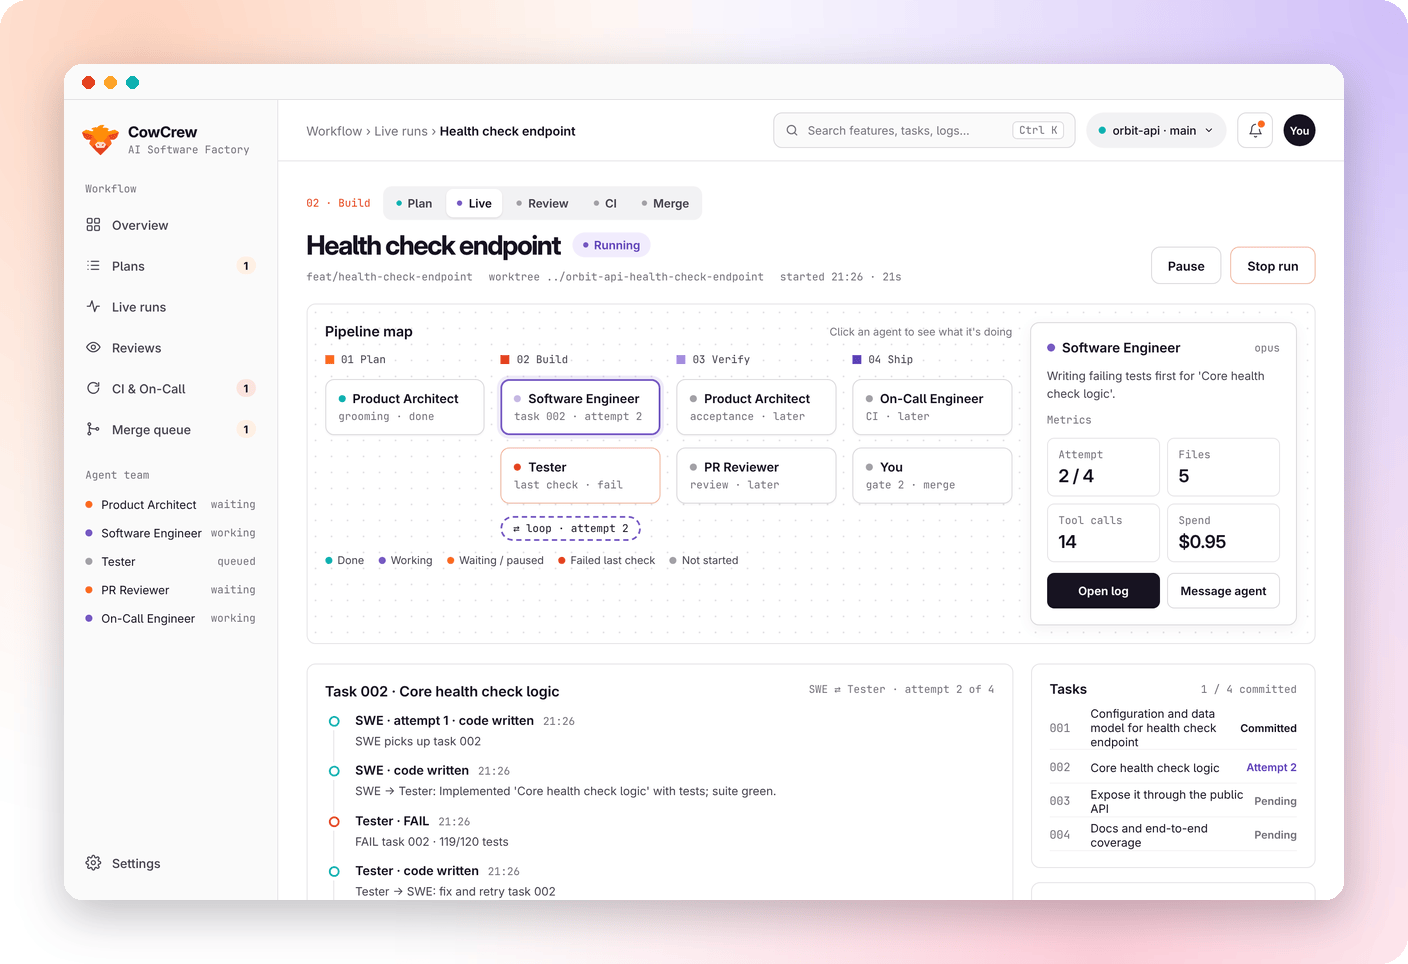
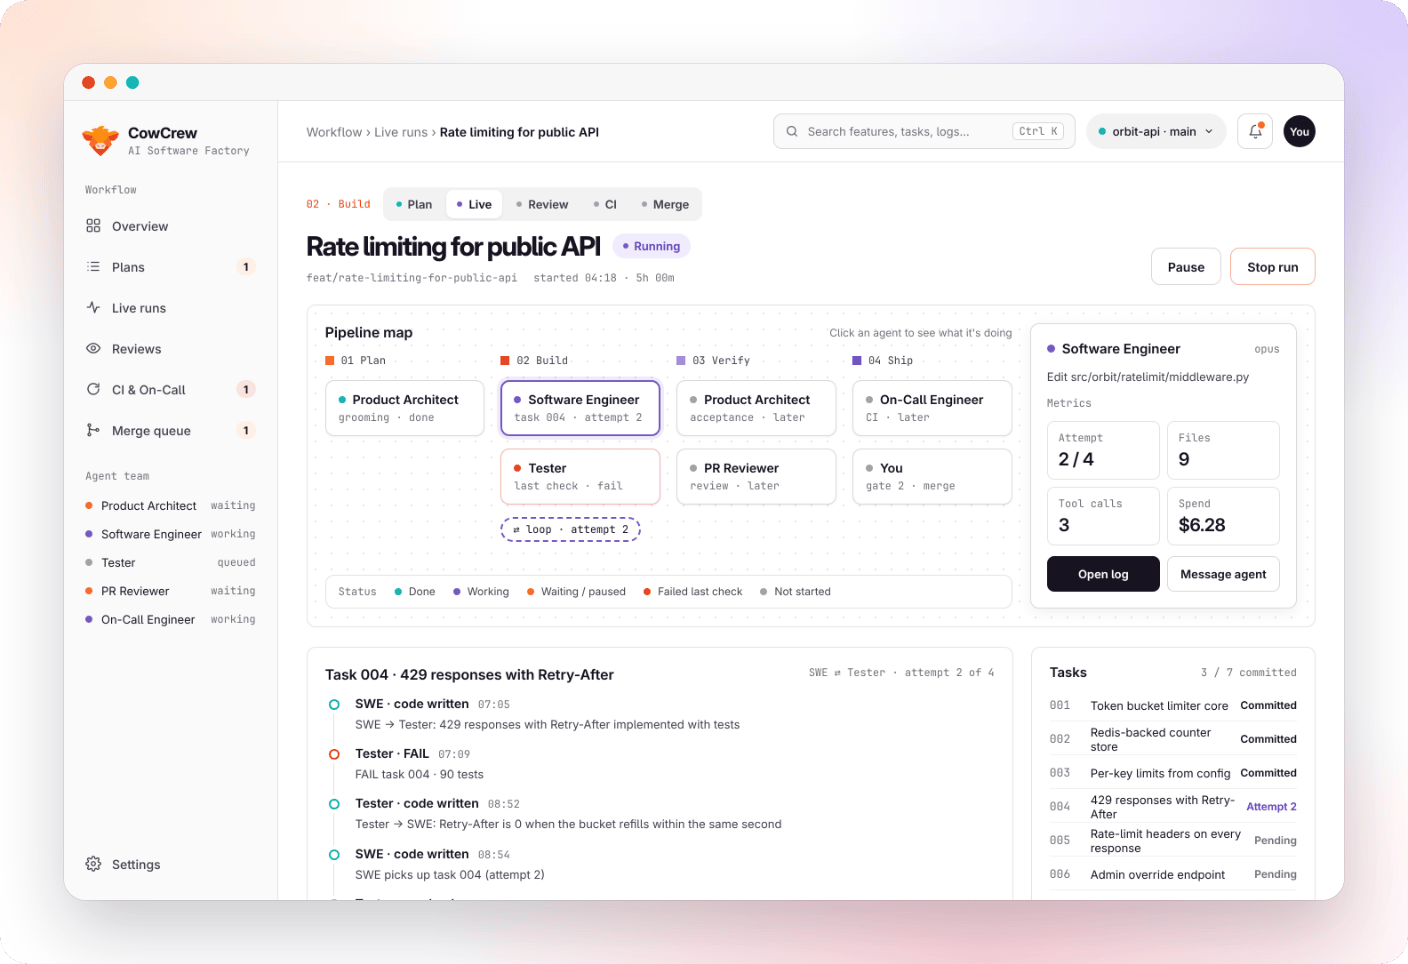
docs: README update with what's new and the Shortly example
- What's new: tokens vs dollars, macOS Keychain login, merges pinned to the
  reviewed commit, re-review after CI fixes, local merge in simulate mode,
  guard fixes, reconnect refresh, opt-in follow-up for nits.
- Example section for examples/shortly with the real click-stats run and a
  new graphic; refreshed Live run screenshot with the legend at the bottom.
- Test badge 140; updated pipeline, safety and simulate-mode text.

Claude-Session: https://claude.ai/code/session_012ToA1M3A84bgyzJTq4odoi

diff --git a/README.md b/README.md
@@ -6,7 +6,7 @@
   <img alt="Python 3.11+" src="https://img.shields.io/badge/python-3.11%2B-171321?style=flat-square&labelColor=45424D">
   <img alt="React 18" src="https://img.shields.io/badge/react-18-7759C2?style=flat-square&labelColor=45424D">
   <img alt="Claude Agent SDK" src="https://img.shields.io/badge/agents-Claude%20Agent%20SDK-FC6D26?style=flat-square&labelColor=45424D">
-  <img alt="115 backend tests" src="https://img.shields.io/badge/tests-115%20passing-10B1B1?style=flat-square&labelColor=45424D">
+  <img alt="140 backend tests" src="https://img.shields.io/badge/tests-140%20passing-10B1B1?style=flat-square&labelColor=45424D">
   <img alt="Runs locally" src="https://img.shields.io/badge/runs-on%20your%20machine-A989F5?style=flat-square&labelColor=45424D">
 </p>
 
@@ -14,7 +14,9 @@
   <a href="#quick-start"><b>Quick start</b></a> ·
   <a href="#how-it-works"><b>How it works</b></a> ·
   <a href="#meet-the-crew"><b>The crew</b></a> ·
+  <a href="#example-shortly"><b>Example</b></a> ·
   <a href="#a-tour-of-the-dashboard"><b>Tour</b></a> ·
+  <a href="#whats-new"><b>What's new</b></a> ·
   <a href="#safety-guardrails"><b>Safety</b></a>
 </p>
 
@@ -28,7 +30,7 @@ CowCrew is a software factory that runs on your own computer. You write a few li
 feature you want. A crew of five AI agents plans it, builds it task by task, tests it, reviews
 it and gets CI green, all inside its own git worktree. You step in exactly twice: to **approve
 the plan** and to **merge the result**. A live dashboard shows every agent, every loop and every
-dollar while it happens.
+token (or dollar) while it happens.
 
 <table>
   <tr>
@@ -45,7 +47,8 @@ dollar while it happens.
     <td width="33%" valign="top">
       <h3>You see everything</h3>
       A pipeline map, the engineer ⇄ tester loop, live logs, findings, CI diagnoses and
-      spend per agent and model, streamed over WebSocket.
+      usage per agent and model, streamed over WebSocket. It catches up on its own after a
+      dropped connection.
     </td>
   </tr>
 </table>
@@ -68,7 +71,10 @@ dollar while it happens.
    Nits never block.
 4. **Ship.** If the project has a GitHub repo and `gh` is logged in, CowCrew pushes, opens the
    PR and watches CI. When CI goes red, the On-Call Engineer diagnoses the failure and writes a
-   fix task. **Gate 2:** you read the checklist and squash-merge, through the PR or locally.
+   fix task. The fix goes back through acceptance and PR review before CI runs again, so
+   nothing reaches you unreviewed. **Gate 2:** you read the checklist and squash-merge, through
+   the PR or locally. The merge is pinned to the exact commit that was reviewed: if anything
+   new lands on the branch, CowCrew refuses to merge it.
 
 Progress is saved in SQLite. After a restart, running features come back paused and pick up
 where they left off when you resume them.
@@ -82,6 +88,41 @@ where they left off when you resume them.
 Each agent runs on the [Claude Agent SDK](https://docs.claude.com/en/docs/agent-sdk/overview)
 with its own instructions, tools and model. You can change the model for each one in
 Settings.
+
+## Example: Shortly
+
+<p align="center">
+  <img src="docs/assets/example-shortly.png" alt="Example run on Shortly: a 2-line spec, 4 questions from the planner, 3 tasks coded, tested and committed, pull request #1 merged; the repo went from 5 to 18 tests" width="100%">
+</p>
+
+[`examples/shortly`](examples/shortly) is a deliberately unfinished URL shortener (FastAPI,
+in-memory storage, 5 tests) that ships with CowCrew so you can watch a real run on a small
+codebase. Its [`AGENTS.md`](examples/shortly/AGENTS.md) tells the agents how to install, test
+and lint it, and which conventions to follow.
+
+**The first real run** used real agents on a Claude subscription with this spec:
+
+> Count how many times each short link is followed. Add GET /links/{code}/stats that returns
+> the target URL, the click count and when the link was created. Unknown codes return 404.
+
+| Step | What happened |
+|---|---|
+| Plan | The Product Architect asked **4 questions** about gaps in the spec, then planned **3 tasks** with acceptance criteria. Gate 1: approved. |
+| Build | In its own worktree on `feat/click-stats`, each task went Software Engineer → Tester, with one commit per PASS. |
+| Verify | The Product Architect accepted the feature. The PR Reviewer's Nits were left for Gate 2. |
+| Ship | **PR #1 `feat: click stats`** was squash-merged at Gate 2. The suite grew from **5 to 18 tests**. |
+
+**Try it yourself.** Copy Shortly into its own git repo (and a GitHub repo if you want PRs and
+CI), add it in **Settings → Projects**, and paste the spec above into **New feature spec**.
+[docs/DEMO.md](docs/DEMO.md) has the full walkthrough, plus a harder second feature (API keys,
+rate limits and rejecting unsafe URLs) that triggers review Blockers, a red CI run and an
+On-Call fix.
+
+```bash
+cp -r examples/shortly ~/code/shortly && cd ~/code/shortly
+git init -b main && git add -A && git commit -m "Shortly starter"
+uv sync && uv run pytest -q     # 5 passed
+```
 
 ## A tour of the dashboard
 
@@ -140,17 +181,18 @@ whole flow without an API key.
 
 ### Run the real agents
 
-1. Set `ANTHROPIC_API_KEY`, or log in to Claude Code on this machine.
+1. Set `ANTHROPIC_API_KEY`, or log in to Claude Code on this machine (`claude` → `/login`).
+   On macOS, a Claude Code login stored in the Keychain is detected automatically.
 2. Optional: install the [GitHub CLI](https://cli.github.com/) and run `gh auth login` so CowCrew
    can push, open PRs and watch CI.
 3. `make serve`, then go to **Settings → Projects** and add a repo by its absolute path (plus
    `owner/repo` if you want PRs).
 4. Click **New feature spec**, describe what you want, and follow it through the gates.
 
-Want a guided first run? **[docs/DEMO.md](docs/DEMO.md)** walks you through a full real-agent
-scenario on a bundled starter app (`examples/shortly`): a safety drill, a warm-up feature, and a
-security-heavy feature that exercises every gate, the tester loop, review Blockers and a red CI
-run fixed by On-Call.
+Want a guided first run? Start with the [Shortly example](#example-shortly), then
+**[docs/DEMO.md](docs/DEMO.md)** for the full real-agent scenario: a safety drill, a warm-up
+feature, and a security-heavy feature that exercises every gate, the tester loop, review
+Blockers and a red CI run fixed by On-Call.
 
 | Command      | What it does                                         |
 |--------------|------------------------------------------------------|
@@ -159,6 +201,27 @@ run fixed by On-Call.
 | `make seed`  | load the demo project (`orbit-api`)                  |
 | `make reset` | wipe the database                                    |
 | `make test`  | backend tests and lint                               |
+
+## What's new
+
+- **Tokens on a subscription, dollars on the API.** On a Claude Pro or Max plan, the
+  Overview, the agent panels and the weekly budget show tokens. With an API key they show
+  dollars. Force either with `COWCREW_BILLING`.
+- **macOS Keychain login.** A Claude Code login on a Mac is found without extra setup.
+- **Safer unattended runs.**
+  - Merges are pinned to the reviewed commit: locally CowCrew checks the branch head, and on
+    GitHub it merges with `gh pr merge --match-head-commit`.
+  - A CI fix goes back through acceptance and PR review before CI runs again.
+  - Simulate mode always merges locally, even when the project has a GitHub repo, so a fake
+    PR can never delete a real branch.
+- **Fewer false alarms from the guard.** Agents can return their structured result, and shell
+  syntax inside quoted strings or heredoc bodies (like `>` in a test string) no longer counts
+  as a redirect.
+- **Dashboard.** It refetches everything after a dropped WebSocket connection. The pipeline
+  map's status legend now sits at the bottom of the map.
+- **Follow-up for nits is opt-in** at Gate 2, so a merge doesn't start a new feature unless you
+  ask for it.
+- **[Shortly example](#example-shortly)** with a real end-to-end run.
 
 ## Safety guardrails
 
@@ -174,7 +237,9 @@ run fixed by On-Call.
   - Bash can't use `sudo`, `ssh`/`scp`, `curl … | sh`, `cd` out of the worktree, or `rm`,
     redirect or copy outside the agent's write scope.
   - Every blocked call shows up in the live log as `Blocked: …`.
-- **A weekly budget** pauses the pipeline when spend reaches it.
+- **Merges are tied to the reviewed commit.** CI and the merge gate refuse a branch that moved
+  after review, and GitHub merges use `--match-head-commit`.
+- **A weekly budget**, in tokens or dollars, pauses the pipeline when usage reaches it.
 - **The server binds to 127.0.0.1** and rejects cross-site writes, cross-site WebSockets and
   unknown `Host` headers (DNS rebinding). It never logs secrets.
 
@@ -191,7 +256,8 @@ replaces the agents and streams realistic events: a Tester FAIL followed by a PA
 Blocker, and a red CI run followed by a green one. A whole feature takes about a minute.
 
 If the project is a real git repo, simulate mode still does the real local git work: the
-worktree, the commits and the squash merge. It never pushes and never opens a real PR.
+worktree, the commits and the squash merge. It never pushes, never opens a real PR, and always
+merges locally, even when the project has a GitHub repo set.
 </details>
 
 <details>
@@ -222,7 +288,8 @@ subscription, CowCrew shows usage and the weekly budget in **tokens**. With an A
 ```
 backend/    FastAPI app, orchestrator, Agent SDK runner, guard, git and gh helpers, tests
 frontend/   React + Vite + TypeScript dashboard
-docs/       API contract (CONTRACT.md) and README assets
+docs/       API contract (CONTRACT.md), the demo guide (DEMO.md) and README assets
+examples/   shortly: a small FastAPI app to try CowCrew on
 ```
 </details>
 
